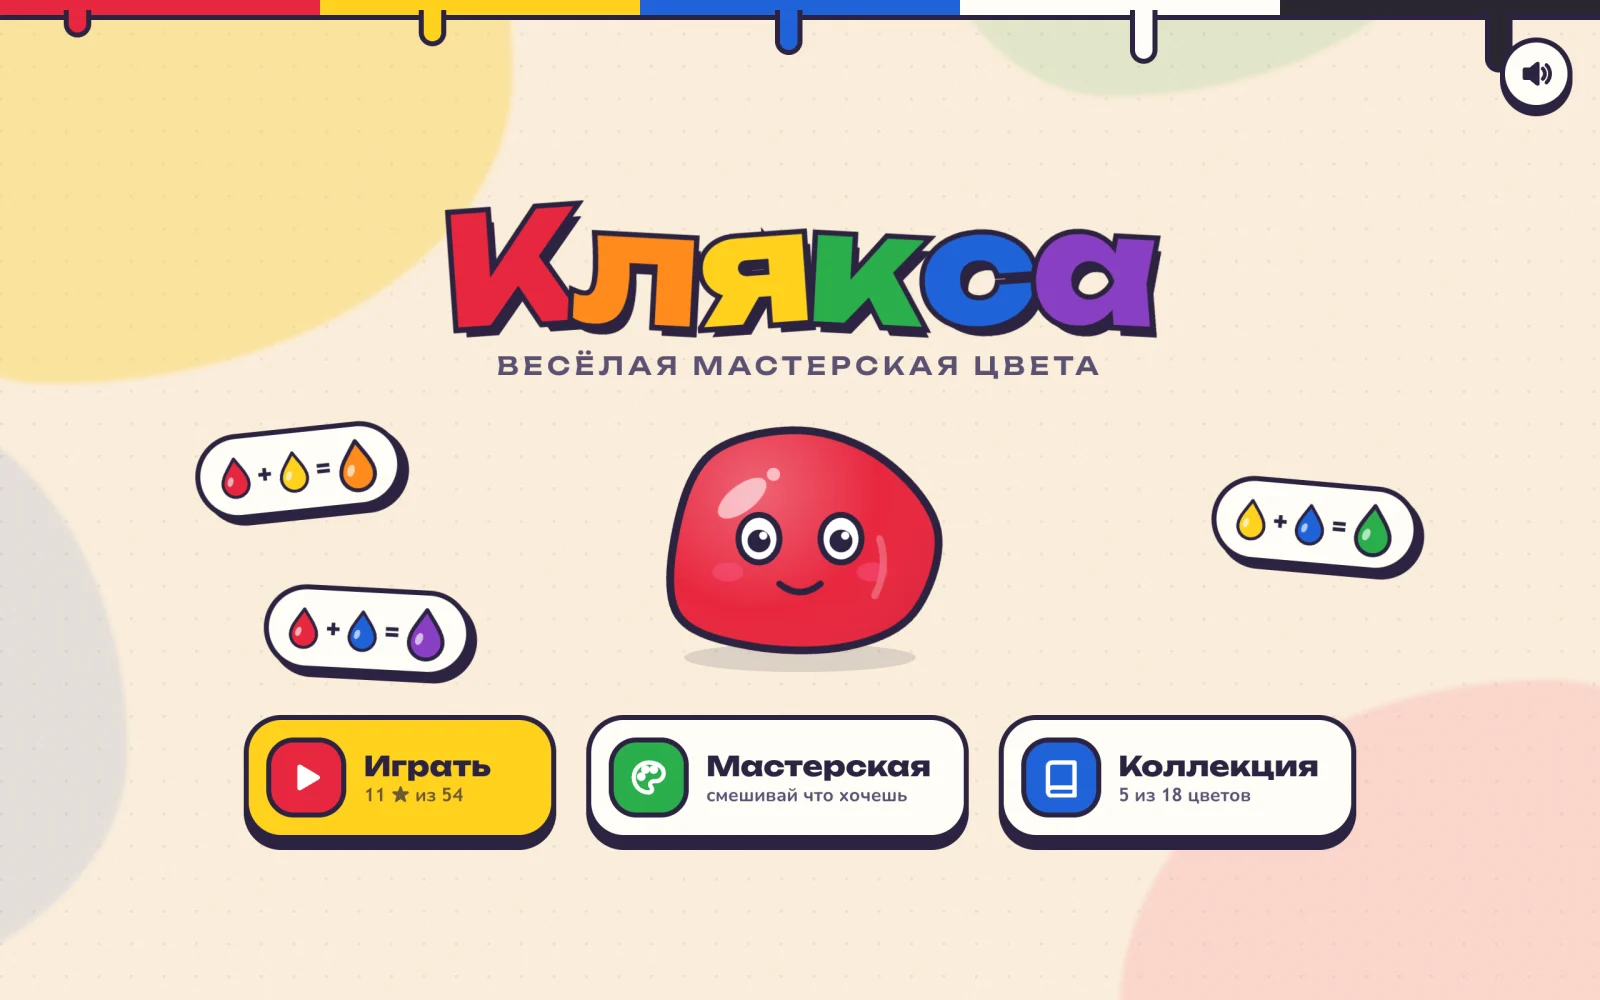
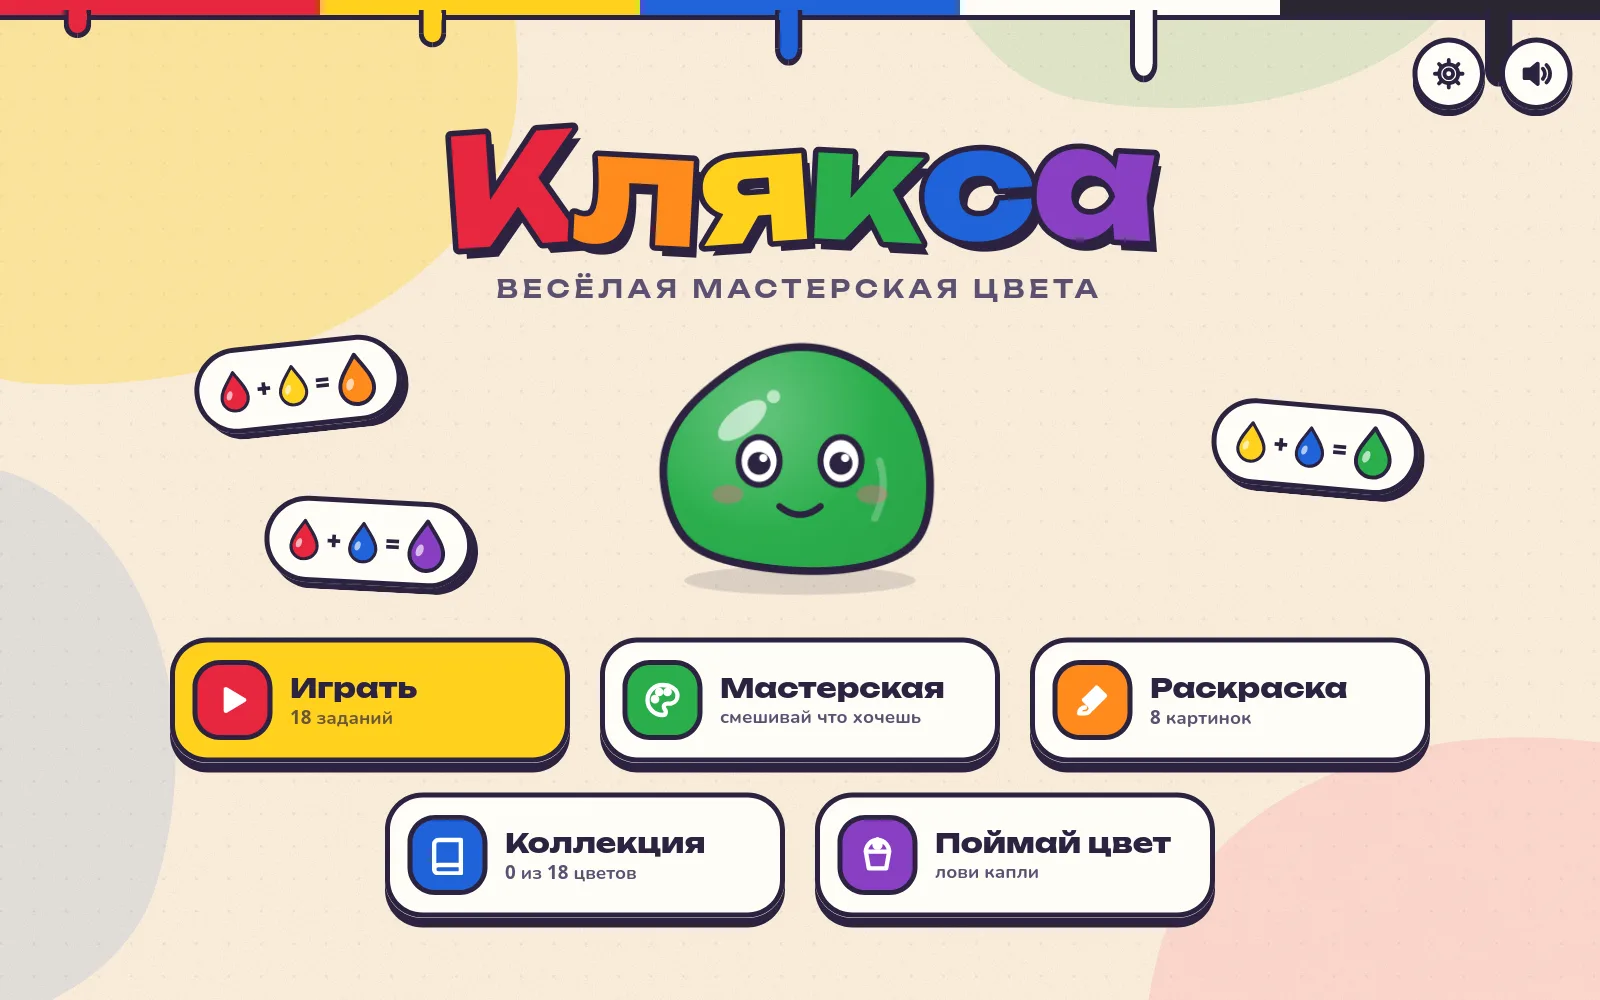
docs(readme): describe catch the color
The README lists the four modes and shows the home screen with four
buttons, so a reader does not learn about the new mini game.

Add it to the list and give it a section with its rules and a
screenshot, mention the record in the parent reset and replace the
home screenshot with the five-button menu.

diff --git a/README.md b/README.md
@@ -9,8 +9,11 @@
 - **Мастерская** — свободное смешивание; новые цвета попадают в коллекцию.
 - **Раскраска** — 8 картинок: смешай краску на кляксе-кисточке и нажми на часть картинки.
 - **Коллекция** — найденные цвета с рецептами, нажми на любой, чтобы его услышать.
+- **Поймай цвет** — мини-игра на ловкость для детей постарше: лови капли в ведро и смешай
+  нужный цвет.
 - **Для взрослых** — шестерёнка на главном экране. Сначала нужно решить пример, который
-  ребёнку не по силам; потом можно открыть все задания или сбросить прогресс.
+  ребёнку не по силам; потом можно открыть все задания или сбросить прогресс (звёзды,
+  коллекцию, раскраски и рекорд).
 
 Задания открываются с запасом: доступны три задания после самого дальнего пройденного,
 поэтому ребёнок, который застрял, может попробовать другое.
@@ -72,6 +75,28 @@
 
 Картинки нарисованы в `src/coloring/pictures.ts`: каждая часть — SVG-контур с цветом из
 коллекции, который считается «настоящим».
+
+## Поймай цвет
+
+Мини-игра для детей от 6 лет. Из белых тучек падают капли восьми цветов: красная, жёлтая,
+синяя, зелёная, розовая, голубая, чёрная и фиолетовая, а иногда сердитая грязь. Клякса
+держит над головой ведро, ребёнок водит его пальцем или стрелками.
+
+- Сверху показан нужный цвет и его рецепт кружками: ведро вмещает рецепт дважды, для
+  оранжевого это две красные и две жёлтые капли. Смешанная капля вливает весь свой рецепт:
+  зелёная — это жёлтая и синяя сразу.
+- Перед тем как уронить каплю, тучка вздрагивает, и под ней набухает капля своего цвета.
+- Лишняя капля или грязь портят ведро и отнимают одно из трёх сердечек. Ведро можно
+  вылить самому, без потери сердечка.
+- Капли подряд дают серию до ×5, за полное ведро — бонус, и начинается следующий цвет,
+  а падает всё быстрее. Цвета идут по порядку заданий; серый и мятный пропускаются, потому
+  что без белой капли их не собрать.
+- Каждые 40 секунд по полу пробегает мышка со шваброй и вытирает все кляксы.
+- Лучший счёт сохраняется и виден на главном экране.
+
+Игра рисуется на canvas в `src/catch/game.ts`; смешивание то же, что в мастерской.
+
+<img src="docs/screenshots/catch.webp" alt="Поймай цвет: Клякса ловит капли в ведро">
 
 ## Установка как приложение
 
